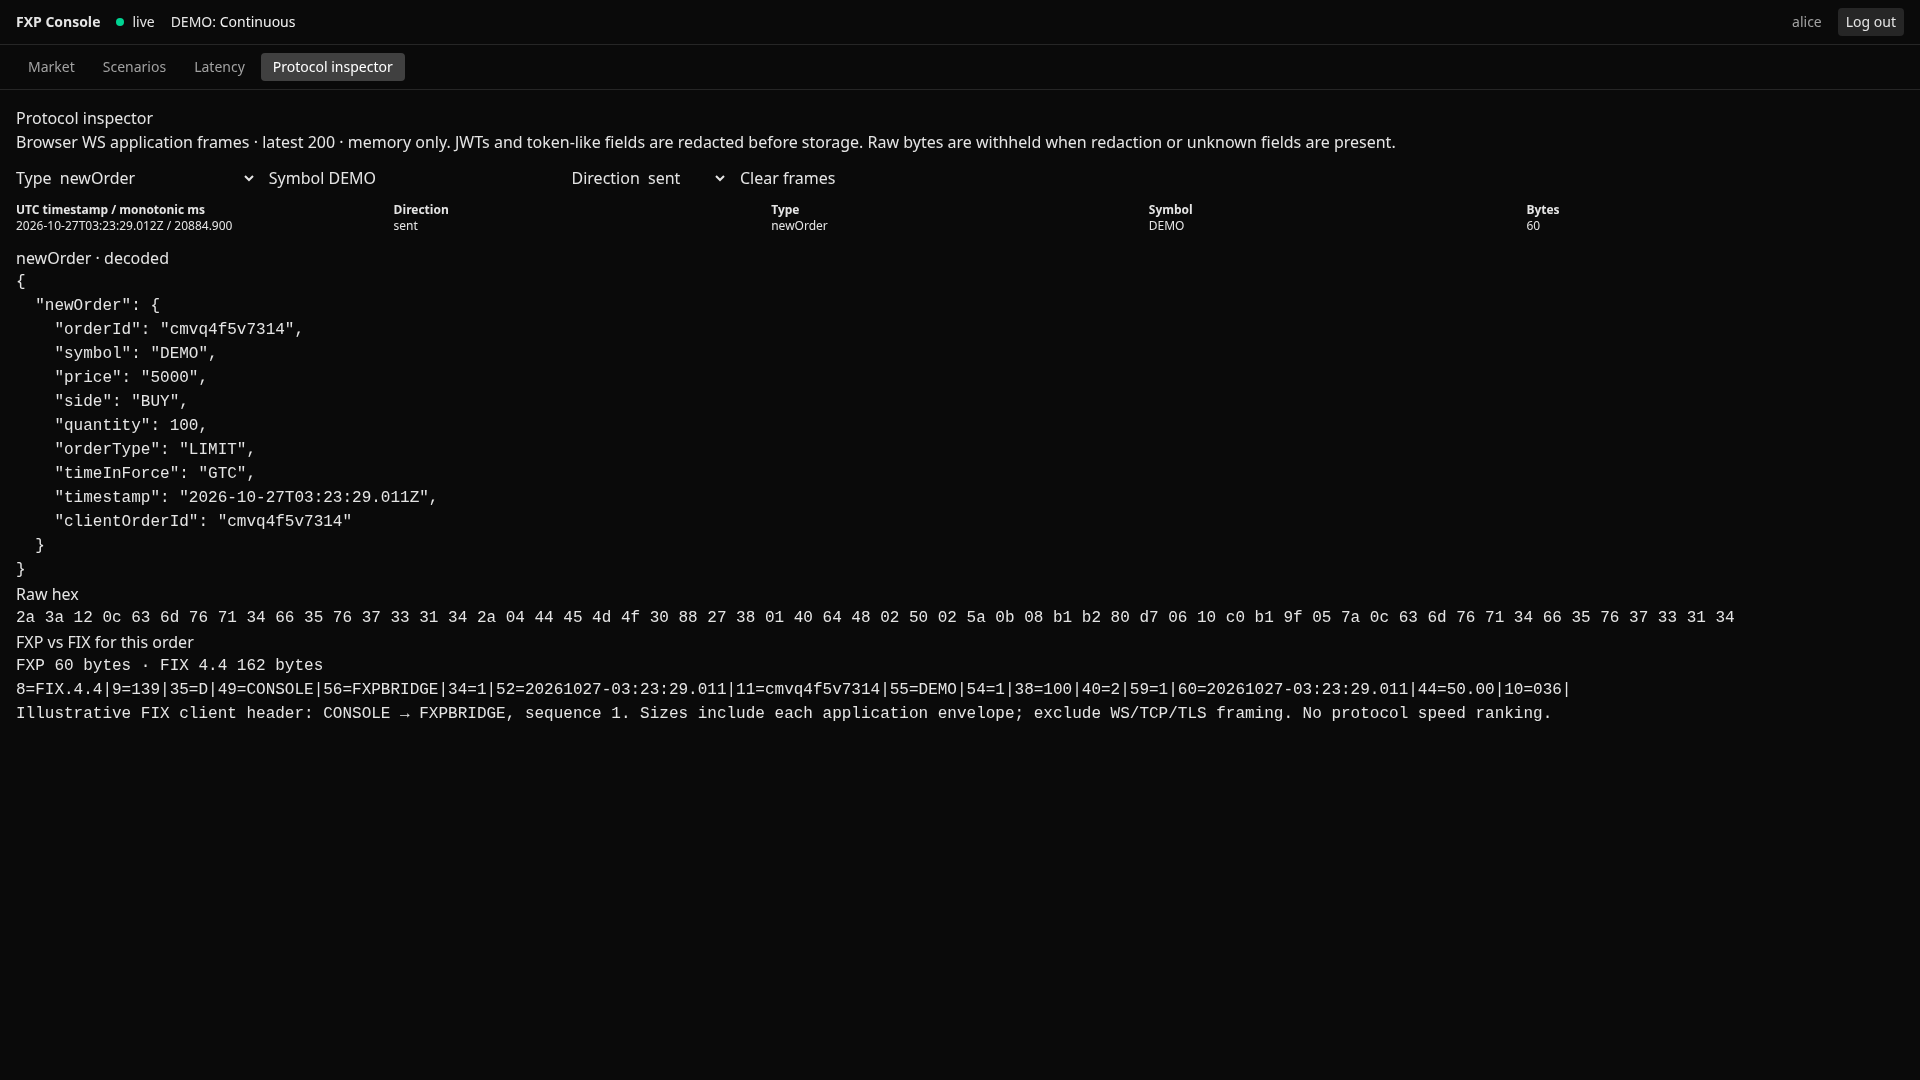
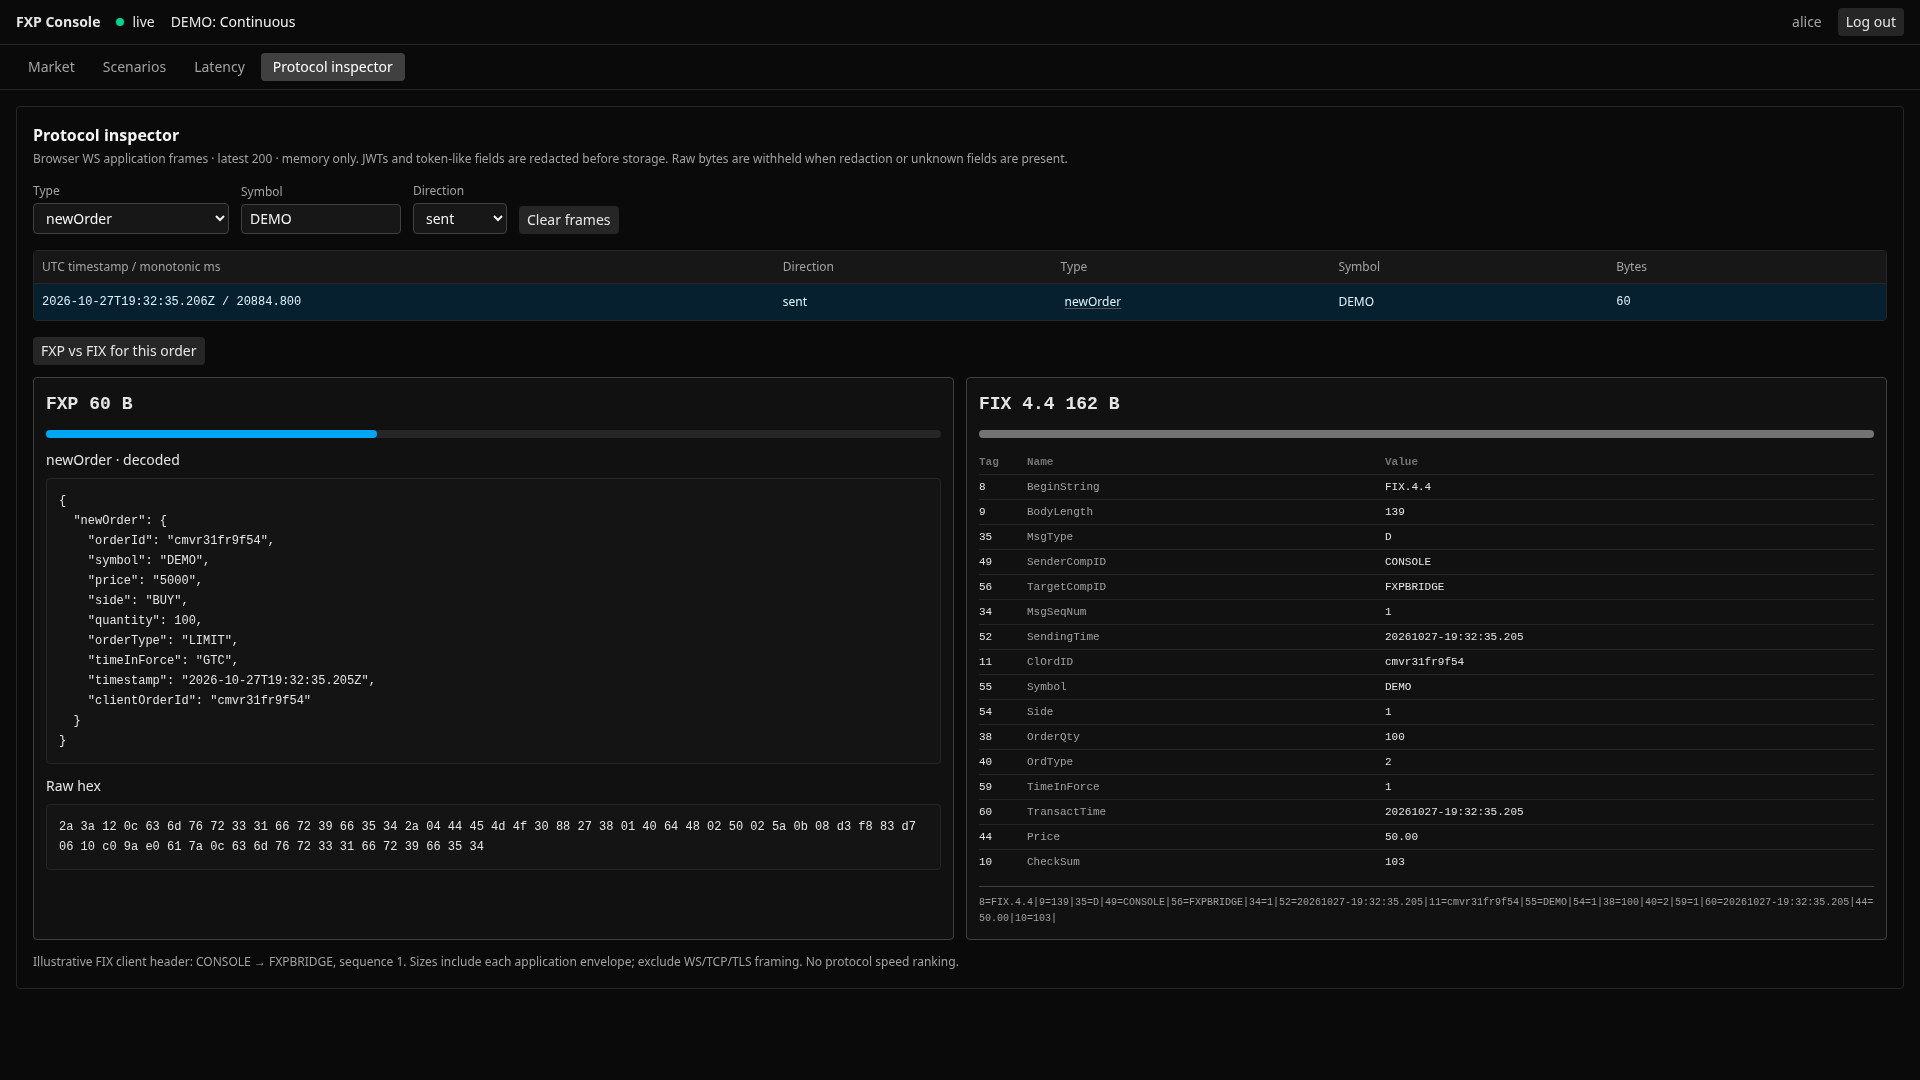
fix(web): frame the protocol inspector and compare encoding sizes

diff --git a/web/src/components/ProtocolInspector.tsx b/web/src/components/ProtocolInspector.tsx
@@ -1,6 +1,12 @@
 // SPDX-License-Identifier: MIT
 import { useState } from "react";
 import { useInspector, type InspectedFrame } from "../lib/inspector";
+import { parseFixPreview } from "../lib/fix-preview";
+import { buttonFocus, neutralButton } from "../lib/styles";
+
+type FixPreview = { fix: string; fix_bytes: number; fxp_bytes: number; note: string };
+const control = `rounded border border-neutral-700 bg-neutral-900 px-2 py-1 text-sm text-neutral-100 ${buttonFocus}`;
+const block = "rounded border border-neutral-800 bg-neutral-900/50 p-3 font-mono text-xs leading-5 whitespace-pre-wrap break-all";
 
 export function ProtocolInspector() {
   useInspector((s) => s.version);
@@ -9,7 +15,7 @@ export function ProtocolInspector() {
   const [symbol, setSymbol] = useState("");
   const [direction, setDirection] = useState("");
   const [selectedId, setSelectedId] = useState<number>();
-  const [comparison, setComparison] = useState<{ id: number; text: string }>();
+  const [comparison, setComparison] = useState<{ id: number; text?: string; data?: FixPreview }>();
   const selected = rows.find((r) => r.id === selectedId);
   async function compare(row: InspectedFrame) {
     setComparison({ id: row.id, text: "Translating…" });
@@ -20,135 +26,97 @@ export function ProtocolInspector() {
         body: JSON.stringify({ frame: row.orderFrame }),
       });
       if (!res.ok)
-        throw Error(
-          "This order cannot be represented by the FIX bridge mappings (including explicit STP NONE). No approximate FIX is shown.",
-        );
-      const d = (await res.json()) as {
-        fix: string;
-        fix_bytes: number;
-        fxp_bytes: number;
-        note: string;
-      };
-      setComparison({
-        id: row.id,
-        text: `FXP ${d.fxp_bytes} bytes · FIX 4.4 ${d.fix_bytes} bytes\n${d.fix}\n${d.note}`,
-      });
+        throw Error("This order cannot be represented by the FIX bridge mappings (including explicit STP NONE). No approximate FIX is shown.");
+      setComparison({ id: row.id, data: await res.json() as FixPreview });
     } catch (e) {
-      setComparison({
-        id: row.id,
-        text: e instanceof Error ? e.message : "FIX translation unavailable",
-      });
+      setComparison({ id: row.id, text: e instanceof Error ? e.message : "FIX translation unavailable" });
     }
   }
+  const preview = comparison?.id === selected?.id ? comparison?.data : undefined;
+  const largest = preview ? Math.max(preview.fxp_bytes, preview.fix_bytes, 1) : 1;
+  const details = selected && <>
+    <h3 className="mb-2 text-sm font-medium">{selected.type} · decoded</h3>
+    <pre className={block}>{selected.decoded}</pre>
+    <h3 className="mb-2 mt-3 text-sm font-medium">Raw hex</h3>
+    <pre className={block}>{selected.hex}</pre>
+  </>;
   return (
     <section className="min-h-0 min-w-0 overflow-auto p-4" aria-label="Protocol inspector">
-      <h2>Protocol inspector</h2>
-      <p>
-        Browser WS application frames · latest 200 · memory only. JWTs and
-        token-like fields are redacted before storage. Raw bytes are withheld
-        when redaction or unknown fields are present.
-      </p>
-      <div className="flex flex-wrap gap-3 my-3">
-        <label>
-          Type{" "}
-          <select
-            aria-label="Frame type"
-            value={type}
-            onChange={(e) => setType(e.target.value)}
-          >
-            <option value="">All</option>
-            {[...new Set(rows.map((r) => r.type))].sort().map((v) => (
-              <option key={v}>{v}</option>
-            ))}
-          </select>
-        </label>
-        <label>
-          Symbol{" "}
-          <input
-            aria-label="Frame symbol"
-            value={symbol}
-            onChange={(e) => setSymbol(e.target.value)}
-          />
-        </label>
-        <label>
-          Direction{" "}
-          <select
-            aria-label="Frame direction"
-            value={direction}
-            onChange={(e) => setDirection(e.target.value)}
-          >
-            <option value="">Both</option>
-            <option>sent</option>
-            <option>received</option>
-          </select>
-        </label>
-        <button
-          onClick={() => {
-            useInspector.getState().clear();
-            setSelectedId(undefined);
-            setComparison(undefined);
-          }}
-        >
-          Clear frames
-        </button>
-      </div>
-      <table className="w-full table-fixed break-words text-left text-xs" data-testid="frame-table">
-        <thead>
-          <tr>
-            <th>UTC timestamp / monotonic ms</th>
-            <th>Direction</th>
-            <th>Type</th>
-            <th>Symbol</th>
-            <th>Bytes</th>
-          </tr>
-        </thead>
-        <tbody>
-          {rows
-            .filter(
-              (r) =>
-                (!type || r.type === type) &&
-                (!symbol ||
-                  r.symbol.toLowerCase().includes(symbol.toLowerCase())) &&
-                (!direction || r.direction === direction),
-            )
-            .map((r) => (
-              <tr key={r.id}>
-                <td>
-                  {r.at} / {r.monotonicMs.toFixed(3)}
-                </td>
-                <td>{r.direction}</td>
-                <td>
-                  <button onClick={() => setSelectedId(r.id)}>{r.type}</button>
-                </td>
-                <td>{r.symbol || "—"}</td>
-                <td>{r.bytes}</td>
-              </tr>
-            ))}
-        </tbody>
-      </table>
-      {!rows.length && (
-        <p>No frames captured yet. Connect to the local gateway.</p>
-      )}
-      {selected && (
-        <div className="mt-3" data-testid="frame-detail">
-          <h3>{selected.type} · decoded</h3>
-          <pre className="whitespace-pre-wrap break-all">
-            {selected.decoded}
-          </pre>
-          <h3>Raw hex</h3>
-          <pre className="whitespace-pre-wrap break-all">{selected.hex}</pre>
-          {selected.orderFrame && (
-            <button onClick={() => void compare(selected)}>
-              FXP vs FIX for this order
-            </button>
-          )}
-          {comparison?.id === selected.id && (
-            <pre className="whitespace-pre-wrap break-all" role="status">
-              {comparison.text}
-            </pre>
-          )}
+      <div className="rounded border border-neutral-800 bg-neutral-950 p-4">
+        <h2 className="font-semibold text-neutral-100">Protocol inspector</h2>
+        <p className="mt-1 text-xs text-neutral-400">
+          Browser WS application frames · latest 200 · memory only. JWTs and
+          token-like fields are redacted before storage. Raw bytes are withheld
+          when redaction or unknown fields are present.
+        </p>
+        <div className="my-4 flex flex-wrap items-end gap-3">
+          <label className="grid gap-1 text-xs text-neutral-400">Type
+            <select className={control} aria-label="Frame type" value={type} onChange={(e) => setType(e.target.value)}>
+              <option value="">All</option>
+              {[...new Set(rows.map((r) => r.type))].sort().map((v) => <option key={v}>{v}</option>)}
+            </select>
+          </label>
+          <label className="grid gap-1 text-xs text-neutral-400">Symbol
+            <input className={`${control} w-40`} aria-label="Frame symbol" value={symbol} onChange={(e) => setSymbol(e.target.value)} />
+          </label>
+          <label className="grid gap-1 text-xs text-neutral-400">Direction
+            <select className={control} aria-label="Frame direction" value={direction} onChange={(e) => setDirection(e.target.value)}>
+              <option value="">Both</option><option>sent</option><option>received</option>
+            </select>
+          </label>
+          <button className={`${neutralButton} text-sm`} onClick={() => {
+            useInspector.getState().clear(); setSelectedId(undefined); setComparison(undefined);
+          }}>Clear frames</button>
         </div>
-      )}
+        <div className="max-h-52 overflow-auto rounded border border-neutral-800">
+          <table className="w-full table-fixed break-words text-left text-xs" data-testid="frame-table">
+            <thead className="sticky top-0 bg-neutral-900 text-neutral-400"><tr>
+              <th className="w-2/5 p-2 font-medium">UTC timestamp / monotonic ms</th>
+              <th className="p-2 font-medium">Direction</th><th className="p-2 font-medium">Type</th>
+              <th className="p-2 font-medium">Symbol</th><th className="p-2 font-medium">Bytes</th>
+            </tr></thead>
+            <tbody>{rows.filter((r) => (!type || r.type === type) && (!symbol || r.symbol.toLowerCase().includes(symbol.toLowerCase())) && (!direction || r.direction === direction)).map((r) => (
+              <tr key={r.id} aria-selected={r.id === selectedId} className={`border-t border-neutral-800 ${r.id === selectedId ? "bg-sky-950/60 text-sky-100" : "text-neutral-300 hover:bg-neutral-800/70"}`}>
+                <td className="p-2 font-mono">{r.at} / {r.monotonicMs.toFixed(3)}</td>
+                <td className="p-2">{r.direction}</td>
+                <td className="p-2"><button className={`rounded px-1 py-0.5 underline decoration-neutral-600 underline-offset-2 ${buttonFocus}`} aria-pressed={r.id === selectedId} onClick={() => setSelectedId(r.id)}>{r.type}</button></td>
+                <td className="p-2">{r.symbol || "—"}</td><td className="p-2 font-mono">{r.bytes}</td>
+              </tr>
+            ))}</tbody>
+          </table>
+        </div>
+        {!rows.length && <p className="p-3 text-sm text-neutral-400">No frames captured yet. Connect to the local gateway.</p>}
+        {selected && (
+          <div className="mt-4 min-w-0 space-y-3" data-testid="frame-detail">
+            {!preview && <div className="min-w-0">{details}</div>}
+            {selected.orderFrame && <button className={`${neutralButton} text-sm`} onClick={() => void compare(selected)}>FXP vs FIX for this order</button>}
+            {comparison?.id === selected.id && (
+              <div className="min-w-0" role="status">
+                {preview ? <>
+                  <div className="grid min-w-0 gap-3 min-[900px]:grid-cols-2">
+                    {[{ name: "FXP", size: preview.fxp_bytes }, { name: "FIX 4.4", size: preview.fix_bytes }].map(({ name, size }) => (
+                      <div key={name} className="min-w-0 rounded border border-neutral-700 bg-neutral-900/50 p-3">
+                        <h4 className="font-mono text-lg font-semibold">{name} {size} B</h4>
+                        <div className="my-3 h-2 rounded bg-neutral-800" aria-label={`${name} size relative to larger encoding`}>
+                          <div className={`h-full rounded ${name === "FXP" ? "bg-sky-500" : "bg-neutral-500"}`} style={{ width: `${size / largest * 100}%` }} />
+                        </div>
+                        {name === "FXP" ? details : <>
+                          <table className="w-full table-fixed break-all text-left font-mono text-[11px] leading-4" aria-label="FIX preview fields">
+                            <thead className="text-neutral-500"><tr><th className="w-12 py-1">Tag</th><th className="w-2/5 py-1">Name</th><th className="py-1">Value</th></tr></thead>
+                            <tbody>{parseFixPreview(preview.fix).map((field, i) => <tr key={i} className="border-t border-neutral-800"><td className="py-1">{field.tag}</td><td className="py-1 text-neutral-400">{field.name}</td><td className="py-1">{field.value}</td></tr>)}</tbody>
+                          </table>
+                          <pre className="mt-3 whitespace-pre-wrap break-all border-t border-neutral-700 pt-2 font-mono text-[10px] leading-4 text-neutral-400">{preview.fix}</pre>
+                        </>}
+                      </div>
+                    ))}
+                  </div>
+                  <p className="mt-3 text-xs leading-5 text-neutral-400">{preview.note}</p>
+                </> : <p className="text-sm text-neutral-400">{comparison.text}</p>}
+              </div>
+            )}
+          </div>
+        )}
+      </div>
     </section>
   );
 }

diff --git a/web/e2e/inspector.spec.ts b/web/e2e/inspector.spec.ts
@@ -99,8 +99,25 @@ test("WS frames, redacted Logon, filters, hex and authoritative FIX comparison",
   await expect(page.getByRole("status")).toContainText("8=FIX.4.4|");
   await expect(page.getByRole("status")).toContainText("55=DEMO|");
   await expect(page.getByRole("status")).toContainText(
-    /FXP \d+ bytes · FIX 4.4 \d+ bytes/,
+    /FXP \d+ B/,
   );
+  await expect(page.getByRole("heading", { name: /FIX 4.4 \d+ B/ })).toBeVisible();
+  await expect(page.getByRole("table", { name: "FIX preview fields" })).toContainText("BeginString");
+  await expect(page.getByTestId("frame-table").locator('[aria-selected="true"]')).toHaveCount(1);
+  await expect(page.getByRole("status")).toContainText("No protocol speed ranking");
+  const fxpCard = page.getByRole("heading", { name: /^FXP \d+ B$/ }).locator("..");
+  const fixCard = page.getByRole("heading", { name: /^FIX 4.4 \d+ B$/ }).locator("..");
+  const wideFXP = await fxpCard.boundingBox();
+  const wideFIX = await fixCard.boundingBox();
+  expect(wideFXP!.y).toBe(wideFIX!.y);
+  expect(wideFXP!.x).toBeLessThan(wideFIX!.x);
+  await page.setViewportSize({ width: 860, height: 1080 });
+  await expect(async () => {
+    const a = await fxpCard.boundingBox();
+    const b = await fixCard.boundingBox();
+    expect(a!.x).toBe(b!.x);
+    expect(a!.y + a!.height).toBeLessThan(b!.y);
+  }).toPass();
   await page
     .getByLabel("Frame direction", { exact: true })
     .selectOption("received");

diff --git a/web/src/lib/fix-preview.ts b/web/src/lib/fix-preview.ts
@@ -1,0 +1,18 @@
+// SPDX-License-Identifier: MIT
+const names: Record<string, string> = {
+  "8": "BeginString", "9": "BodyLength", "10": "CheckSum", "11": "ClOrdID",
+  "34": "MsgSeqNum", "35": "MsgType", "38": "OrderQty", "40": "OrdType",
+  "44": "Price", "49": "SenderCompID", "52": "SendingTime", "54": "Side",
+  "55": "Symbol", "56": "TargetCompID", "59": "TimeInForce", "60": "TransactTime",
+  "99": "StopPx", "111": "MaxFloor", "432": "ExpireDate", "1": "Account",
+  "2362": "SelfMatchPreventionID", "2964": "SelfMatchPreventionInstruction",
+};
+
+/** Presentation only: preserve order, unknown tags and empty values; never translate orders. */
+export function parseFixPreview(preview: string) {
+  return preview.split("|").filter((field) => field.length > 0).map((field) => {
+    const separator = field.indexOf("=");
+    const tag = separator < 0 ? field : field.slice(0, separator);
+    return { tag, name: names[tag] ?? "", value: separator < 0 ? "" : field.slice(separator + 1) };
+  });
+}

diff --git a/web/src/lib/fix-preview.test.ts b/web/src/lib/fix-preview.test.ts
@@ -1,0 +1,18 @@
+// SPDX-License-Identifier: MIT
+import { describe, expect, it } from "vitest";
+import { parseFixPreview } from "./fix-preview";
+describe("FIX preview fields", () => {
+  it("keeps authoritative field order, unknown tags and empty values", () => {
+    expect(parseFixPreview("8=FIX.4.4|9999=custom|1=||55=DEMO|10=123|")).toEqual([
+      { tag: "8", name: "BeginString", value: "FIX.4.4" },
+      { tag: "9999", name: "", value: "custom" },
+      { tag: "1", name: "Account", value: "" },
+      { tag: "55", name: "Symbol", value: "DEMO" },
+      { tag: "10", name: "CheckSum", value: "123" },
+    ]);
+  });
+  it("preserves equals within values and repeated tags", () => {
+    expect(parseFixPreview("55=A=B|55=C").map((f) => f.value)).toEqual(["A=B", "C"]);
+    expect(parseFixPreview("||")).toEqual([]);
+  });
+});

diff --git a/web/record/demo.spec.ts b/web/record/demo.spec.ts
@@ -115,7 +115,7 @@ test("three-beat presentation: Alice only", async ({ browser, baseURL }) => {
     await alice.getByRole("button", { name: "FXP vs FIX for this order" }).click();
     await expect(alice.getByRole("status")).toContainText("8=FIX.4.4|");
     await expect(alice.getByRole("status")).toContainText("55=DEMO|");
-    await expect(alice.getByRole("status")).toContainText(/FXP \d+ bytes · FIX 4.4 \d+ bytes/);
+    await expect(alice.getByRole("status")).toContainText(/FXP \d+ B/);
     await still(alice, "console-protocol.png");
     await holdUntil(62);
     await alice.getByRole("button", { name: "Latency", exact: true }).click();
